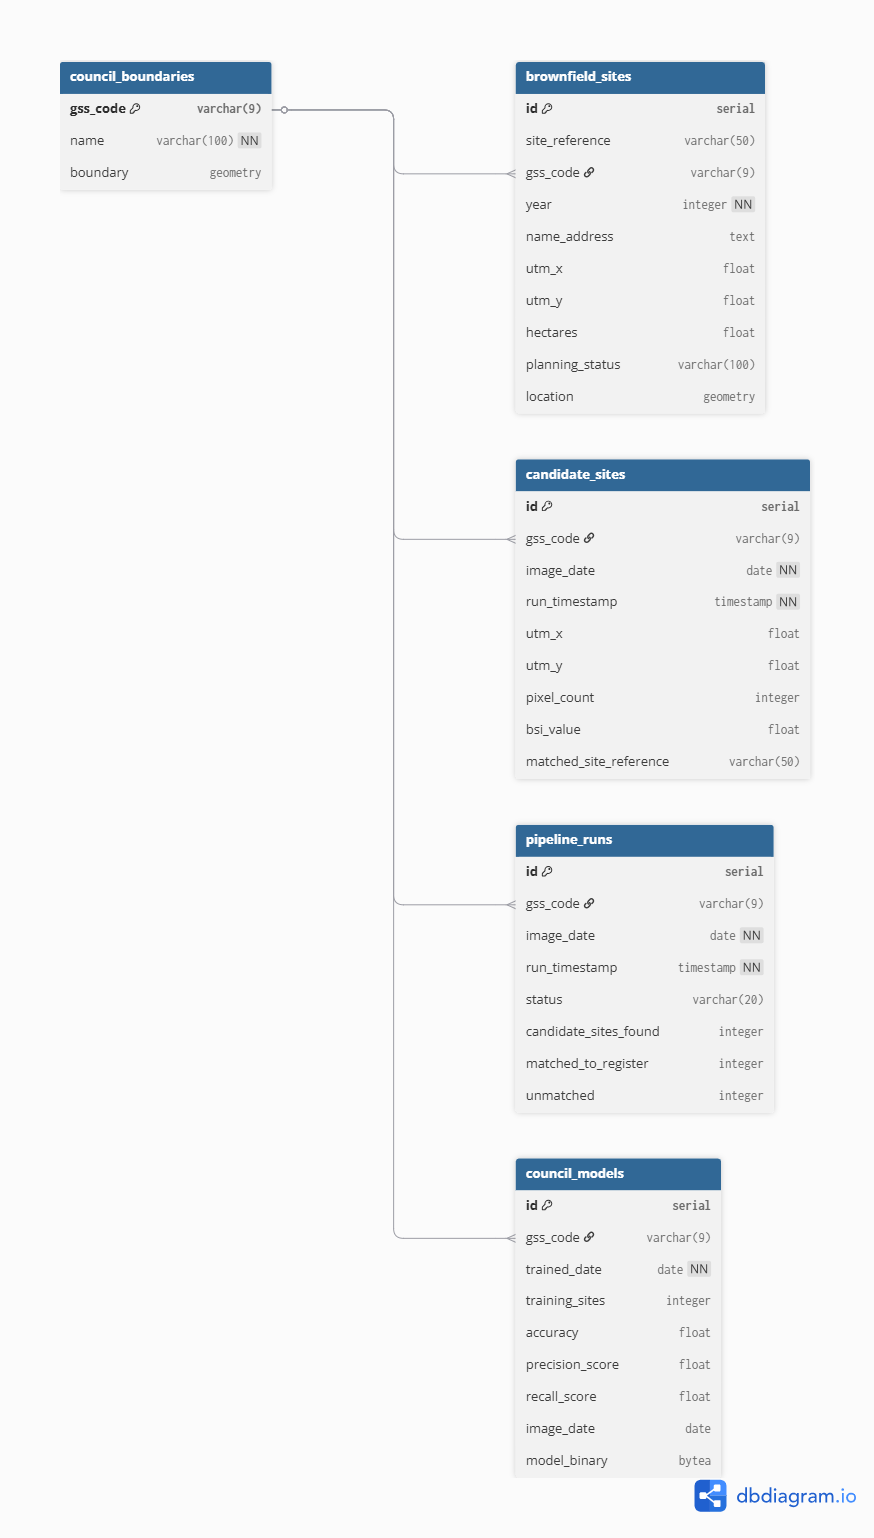
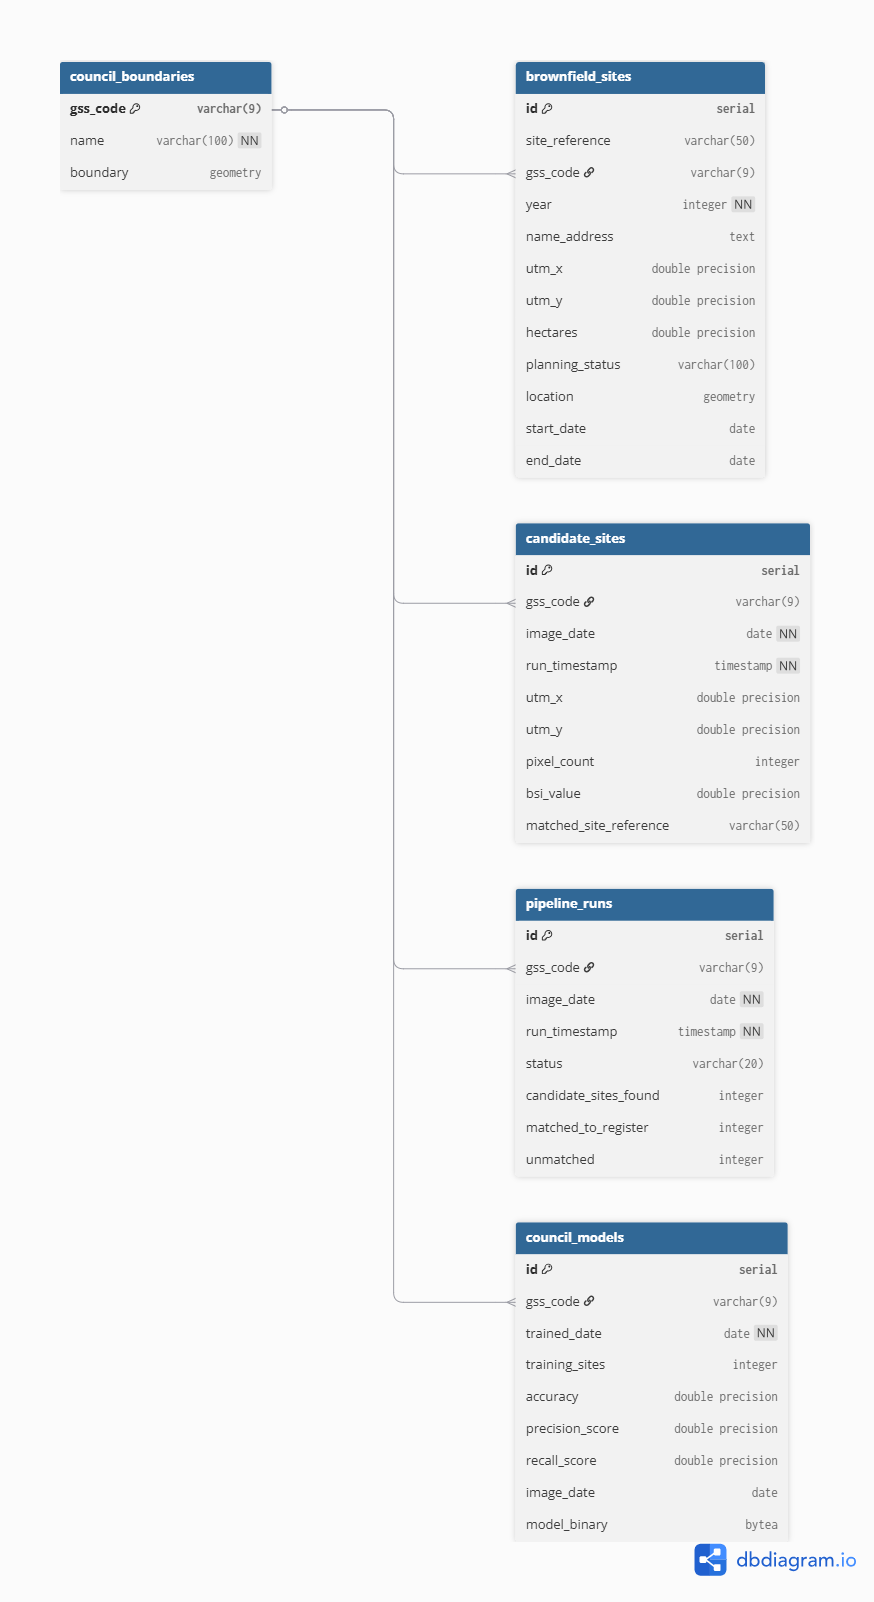
feat: add initial schema migration with foreign keys and spatial index - align DATABASE.md and ERD with new schema, remove stale change detection issue

Changed region(s): [[0.5561, 0.0312, 0.9268, 0.9675], [0.0618, 0.0312, 0.4325, 0.1248], [0.7723, 0.8427, 0.9577, 0.9987]]

diff --git a/DATABASE.md b/DATABASE.md
@@ -37,7 +37,7 @@ CREATE TABLE council_boundaries (
 
 ### 3.2 brownfield_sites
 
-Stores all available years of the brownfield register for any UK council. Populated annually by scripts/setup_brownfield.py for manual register files, or scripts/download_brownfield_registers.py for automated download from planning.data.gov.uk (85% UK council coverage). Coordinates are stored in both their original BNG form (via UTM conversion) and as a PostGIS POINT geometry for spatial queries. The year column allows change detection queries across annual registers without requiring separate tables. A unique constraint on (site_reference, gss_code, year) prevents duplicate entries when running setup or download scripts multiple times.
+Stores all available years of the brownfield register for any UK council. Populated annually by scripts/setup_brownfield.py for manual register files, or scripts/download_brownfield_registers.py for automated download from planning.data.gov.uk (85% UK council coverage). Coordinates are stored in both their original BNG form (via UTM conversion) and as a PostGIS POINT geometry for spatial queries. The year column allows change detection queries across annual registers without requiring separate tables. The start_date and end_date columns are sourced from planning.data.gov.uk and drive detect_register_changes across register years. A unique constraint on (site_reference, gss_code, year) prevents duplicate entries when running setup or download scripts multiple times. A GIST spatial index on the location column accelerates the ST_DWithin proximity query used by match_candidate_to_register during pipeline runs.
 
 ```sql
 CREATE TABLE brownfield_sites (
@@ -46,13 +46,18 @@ CREATE TABLE brownfield_sites (
     gss_code VARCHAR(9) REFERENCES council_boundaries(gss_code),
     year INTEGER NOT NULL,
     name_address TEXT,
-    utm_x FLOAT,
-    utm_y FLOAT,
-    hectares FLOAT,
+    utm_x DOUBLE PRECISION,
+    utm_y DOUBLE PRECISION,
+    hectares DOUBLE PRECISION,
     planning_status VARCHAR(100),
     location GEOMETRY(POINT, 32630),
+    start_date DATE,
+    end_date DATE,
     CONSTRAINT brownfield_sites_unique UNIQUE (site_reference, gss_code, year)
 );
+
+CREATE INDEX brownfield_sites_location_idx
+    ON brownfield_sites USING GIST (location);
 ```
 
 ### 3.3 candidate_sites
@@ -65,10 +70,10 @@ CREATE TABLE candidate_sites (
     gss_code VARCHAR(9) REFERENCES council_boundaries(gss_code),
     image_date DATE NOT NULL,
     run_timestamp TIMESTAMP NOT NULL,
-    utm_x FLOAT,
-    utm_y FLOAT,
+    utm_x DOUBLE PRECISION,
+    utm_y DOUBLE PRECISION,
     pixel_count INTEGER,
-    bsi_value FLOAT,
+    bsi_value DOUBLE PRECISION,
     matched_site_reference VARCHAR(50)
 );
 ```
@@ -100,9 +105,9 @@ CREATE TABLE council_models (
     gss_code VARCHAR(9) REFERENCES council_boundaries(gss_code),
     trained_date DATE NOT NULL,
     training_sites INTEGER,
-    accuracy FLOAT,
-    precision_score FLOAT,
-    recall_score FLOAT,
+    accuracy DOUBLE PRECISION,
+    precision_score DOUBLE PRECISION,
+    recall_score DOUBLE PRECISION,
     image_date DATE,
     model_binary BYTEA
 );
@@ -116,7 +121,7 @@ The diagram below shows the relationships between the five tables. All four data
 
 ## 5. Version Roadmap
 
-In Version 2, the database is the core component of the system and is now fully operational. PostgreSQL with PostGIS replaces the previous file-based workflow and provides a centralised structure for all spatial data. The database stores 361 UK council boundary datasets and brownfield register data for Stoke-on-Trent across six years (2019-2024, 1,308 sites) plus 352 sites from planning.data.gov.uk. The Version 2 pipeline runs end-to-end, detecting 218 candidate brownfield sites for Stoke-on-Trent from the May 2026 Sentinel-2 image, matching 39 to the register and identifying 179 potential unregistered sites. Candidate sites and pipeline run metadata are stored in the database after each run. Change detection across register years is implemented but has a known data quality issue with site reference format differences between manual register files and planning.data.gov.uk data, scheduled for fix in the next development session.
+In Version 2, the database is the core component of the system and is now fully operational. PostgreSQL with PostGIS replaces the previous file-based workflow and provides a centralised structure for all spatial data. The database stores 361 UK council boundary datasets and brownfield register data for Stoke-on-Trent across six years (2019-2024, 1,308 sites) plus 352 sites from planning.data.gov.uk. The Version 2 pipeline runs end-to-end, detecting 218 candidate brownfield sites for Stoke-on-Trent from the May 2026 Sentinel-2 image, matching 39 to the register and identifying 179 potential unregistered sites. Candidate sites and pipeline run metadata are stored in the database after each run. Change detection across register years is implemented and driven by the start_date and end_date columns sourced from planning.data.gov.uk, reporting 66 removed and 119 added sites for Stoke 2019-2024.
 
 In Version 3, the database is extended to support a full web-based application. An API layer is introduced between the database and the frontend, allowing spatial queries to be handled dynamically through PostGIS. Council boundary data becomes automatically downloaded and updated rather than manually imported. Where available, brownfield datasets are also automatically refreshed to ensure the system remains up to date. The council_models table is populated with trained Random Forest classifier models, with model binaries stored as BYTEA directly in the database to avoid filesystem dependencies in the hosted environment. At this stage, the system is migrated from a local PostgreSQL instance to a hosted production database on Supabase, improving scalability and allowing multi-user access.
 